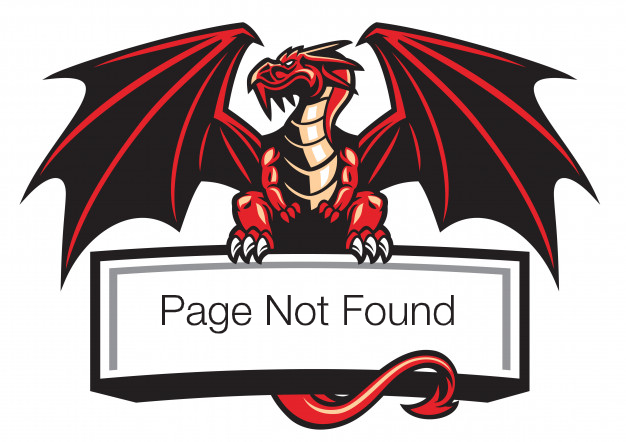
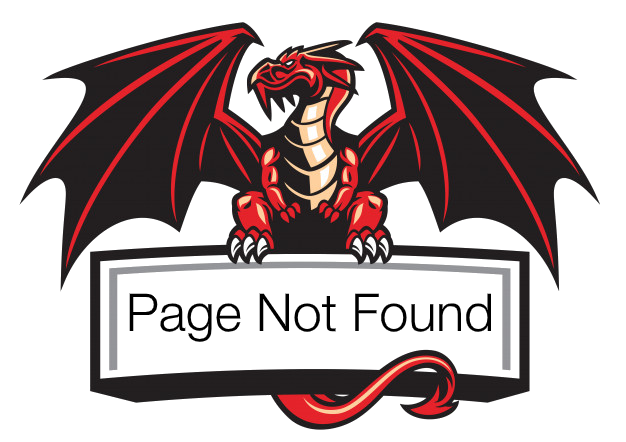
Repo state near the end of course
* Flux portion left
* Code is in a broken state and requires extensive debugging
* New dependency added: 'react-toastify' for push messaging
  within the React app

Changed region(s): [[0.1821, 0.6471, 0.7891, 0.7941]]

diff --git a/src/components/ManageCoursePage.js b/src/components/ManageCoursePage.js
@@ -1,10 +1,71 @@
-import React from "react";
+import React, { useState, useEffect } from "react";
+import CourseForm from "./CourseForm";
+import * as courseApi from "../api/courseApi";
+import { toast } from "react-toastify";
 
 const ManageCoursePage = (props) => {
+  const [errors, setErrors] = useState({});
+  const [course, setCourse] = useState({
+    id: null,
+    slug: "",
+    title: "",
+    authorId: null,
+    category: "",
+  });
+
+  useEffect(() => {
+    const slug = props.match.params.slug;
+    courseApi.getCourseBySlug(slug).then((_course) => setCourse(_course));
+  }, [props.match.params.slug]);
+
+  // DON'T REMOVE
+  // ------------
+  // function handleChange(event) {
+  //   const updatedCourse = {
+  //     ...course,
+  //     [event.target.name]: event.target.value,
+  //   };
+  //   setCourse(updatedCourse);
+  // }
+
+  // Alternative and more concise syntax
+  function handleChange({ target }) {
+    setCourse({
+      ...course,
+      [target.name]: target.value,
+    });
+  }
+
+  function formIsValid() {
+    const _errors = {};
+
+    if (!course.title) _errors.title = "Title is required";
+    if (!course.authorId) _errors.authorId = "Author ID is required";
+    if (!course.category) _errors.category = "Category is required";
+
+    setErrors(_errors);
+    // Form is valid if 'errors' object has no properties
+    return Object.keys(errors).length === 0;
+  }
+
+  function handleSubmit(event) {
+    event.preventDefault();
+    if (!formIsValid()) return;
+    courseApi.saveCourse(course).then(() => {
+      props.history.push("/courses");
+      toast.success("Course Saved");
+    });
+  }
+
   return (
     <>
       <h2>Manage Course</h2>
-      {props.match.params.slug}
+      <CourseForm
+        errors={errors}
+        course={course}
+        onChange={handleChange}
+        onSubmit={handleSubmit}
+      />
     </>
   );
 };

diff --git a/src/components/CourseForm.js b/src/components/CourseForm.js
@@ -1,0 +1,58 @@
+import React from "react";
+import TextInput from "./common/TextInput";
+import PropTypes from "prop-types";
+
+function CourseForm(props) {
+  return (
+    <form onSubmit={props.onSubmit}>
+      <TextInput
+        id="title"
+        name="title"
+        label="Title"
+        onChange={props.onChange}
+        value={props.course.title}
+        error={props.errors.title}
+      />
+
+      <div className="form-group">
+        <label htmlFor="author">Author</label>
+        <div className="field">
+          <select
+            id="author"
+            name="authorId"
+            onChange={props.onChange}
+            value={props.course.authorId || ""}
+            className="form-control"
+          >
+            <option value="" />
+            <option value="1">Cory House</option>
+            <option value="2">Scott Allen</option>
+          </select>
+        </div>
+        {props.errors.authorId && (
+          <div className="alert alert-danger">{props.errors.authorId}</div>
+        )}
+      </div>
+
+      <TextInput
+        id="category"
+        name="category"
+        label="Category"
+        onChange={props.onChange}
+        value={props.course.category}
+        error={props.errors.title}
+      />
+
+      <input type="submit" value="Save" className="btn btn-primary" />
+    </form>
+  );
+}
+
+CourseForm.propTypes = {
+  course: PropTypes.object.isRequired,
+  onSubmit: PropTypes.func.isRequired,
+  onChange: PropTypes.func.isRequired,
+  errors: PropTypes.object.isRequired,
+};
+
+export default CourseForm;

diff --git a/src/components/App.js b/src/components/App.js
@@ -6,15 +6,29 @@ import AboutPage from "./AboutPage";
 import PageNotFound from "./PageNotFound";
 import ManageCoursePage from "./ManageCoursePage";
 import { Route, Switch, Redirect } from "react-router-dom";
+import { ToastContainer } from "react-toastify";
+import "react-toastify/dist/ReactToastify.css";
 
 function App() {
   return (
     <div className="container-fluid">
+      <ToastContainer
+        position="top-right"
+        autoClose={3000}
+        hideProgressBar={false}
+        newestOnTop={true}
+        closeOnClick
+        rtl={false}
+        pauseOnFocusLoss
+        draggable
+        pauseOnHover
+      />
       <Header />
       <Switch>
         <Route path="/" exact component={HomePage} />
         <Route path="/courses" component={CoursesPage} />
         <Route path="/course/:slug" component={ManageCoursePage} />
+        <Route path="/course" component={ManageCoursePage} />
         <Route path="/about" component={AboutPage} />
         <Redirect from="/about-page" to="/about" />
         <Route component={PageNotFound} />

diff --git a/src/components/common/TextInput.js b/src/components/common/TextInput.js
@@ -1,0 +1,40 @@
+import React from "react";
+import PropTypes from "prop-types";
+
+function TextInput(props) {
+  let wrapperClass = "form-group";
+  if (props.error.length > 0) {
+    wrapperClass += " has-error";
+  }
+  return (
+    <div className={wrapperClass}>
+      <label htmlFor={props.id}>{props.label}</label>
+      <div className="field">
+        <input
+          id={props.id}
+          type="text"
+          name={props.name}
+          onChange={props.onChange}
+          value={props.title}
+          className="form-control"
+        />
+      </div>
+      {props.error && <div className="alert alert-danger">{props.error}</div>}
+    </div>
+  );
+}
+
+TextInput.prototypes = {
+  id: PropTypes.string.isRequired,
+  name: PropTypes.string.isRequired,
+  label: PropTypes.string.isRequired,
+  onChange: PropTypes.func.isRequired,
+  value: PropTypes.string,
+  error: PropTypes.string,
+};
+
+TextInput.defaultProps = {
+  error: "",
+};
+
+export default TextInput;

diff --git a/src/components/CoursesPage.js b/src/components/CoursesPage.js
@@ -1,6 +1,7 @@
 import React, { useState, useEffect } from "react";
 import { getCourses } from "../api/courseApi";
 import CourseList from "./CourseList";
+import { Link } from "react-router-dom";
 
 function CoursesPage() {
   const [courses, setCourses] = useState([]);
@@ -12,6 +13,9 @@ function CoursesPage() {
   return (
     <>
       <h2>Courses</h2>
+      <Link to="/course" className="btn btn-primary">
+        Add Course
+      </Link>
       <CourseList courses={courses} />
     </>
   );

diff --git a/src/components/PageNotFound.js b/src/components/PageNotFound.js
@@ -4,7 +4,7 @@ import ErrorImage from "../404.png";
 
 function PageNotFound() {
   return (
-    <div style={{ textAlign: "center" }}>
+    <div className="jumbotron" style={{ textAlign: "center" }}>
       <img src={ErrorImage} alt="Page Not Found" width={"50%"} />
       {/* <h2>Page Not Found</h2> */}
       <p style={{ paddingTop: "1em" }}>

diff --git a/src/components/HomePage.js b/src/components/HomePage.js
@@ -9,6 +9,13 @@ function HomePage() {
       <Link to="about" className="btn btn-primary">
         About
       </Link>
+      <Link
+        to="zzzzpagenotfoundzzzz"
+        className="btn btn-danger"
+        style={{ margin: "1%" }}
+      >
+        404 Page
+      </Link>
     </div>
   );
 }
